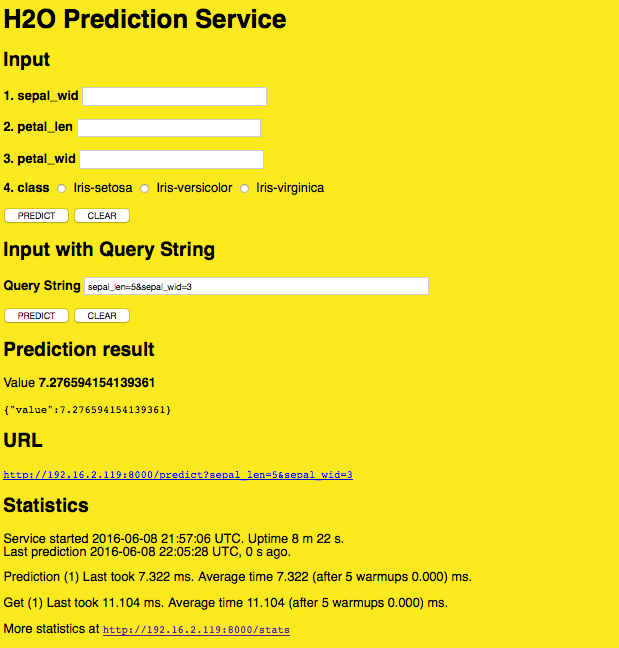
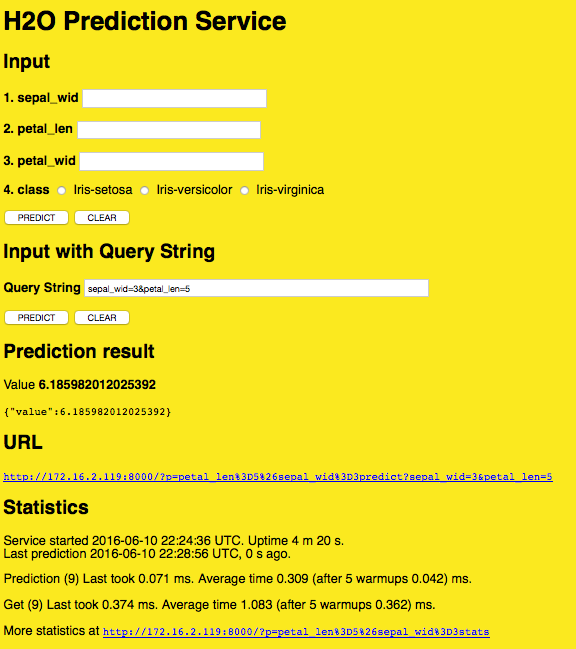
More updates to demo doc
- Added s3cmd requirement.
- Removed IP address for starting the compilation service and scoring
service.
- Update screenshots where necessary to show localhost instead of an IP
address.

Changed region(s): [[0.0, 0.0, 0.9688, 0.9877]]

diff --git a/demo/standard_demo_standalone.md b/demo/standard_demo_standalone.md
@@ -14,14 +14,22 @@ Finally, these steps were created using H2O version 3.8.2.8, and that version re
 ## Requirements
 
 - Web browser with an Internet connection
+- s3cmd
+	- available from <a href="http://s3tools.org/s3cmd" target="_blank">s3tools.org</a>
+	- Requires AWS credentials
 - JDK 1.7 or greater
 - Steam binary for Linux or OS X 
 	- `s3cmd get s3://steam-release/steamY-master-linux-amd64.tar.gz`
 	- `s3cmd get s3://steam-release/steamY-master-darwin-amd64.tar.gz`
 - H2O jar file
-	- available from the <a href="http://h2o-release.s3.amazonaws.com/h2o/rel-turchin/8/index.html"> H2O Download</a> page
+	- available from the <a href="http://h2o-release.s3.amazonaws.com/h2o/rel-turchin/8/index.html" target="_blank">H2O Download</a> page
+
+###Optional
+
+The following are required if you use the Python demo included in this document. 
+
 - A dataset that will be used to generate a model. This demo uses the well-known iris.csv dataset, and the dataset is saved onto the desktop. 
-- Python 2.7 (for building the model)
+- Python 2.7
 
 ## Installing and Starting Steam, the Compilation Service, and H2O
 
@@ -38,12 +46,12 @@ Finally, these steps were created using H2O version 3.8.2.8, and that version re
 		user$ cd steam-master-darwin-amd64
 		user$ java -jar var/master/assets/jetty-runner.jar var/master/assets/ROOT.war
 		
-4. Open another terminal window. Navigate to the Steam folder and start Steam. Replace the IP address with the IP address of your local machine.
+4. Open another terminal window. Navigate to the Steam folder and start the Steam compilation service and scoring service.
 
 		user$ cd steam-master-darwin-amd64/
-		user$ ./steam serve master --compilation-service-address=192.16.2.119:8080 --scoring-service-address=192.16.2.119
+		user$ ./steam serve master
 
-	>***Note***: Use `./steam help serve master` or `./steam serve master -h` to view additional options
+	>***Note***: This starts the compilation service on `localhost:8080` and the scoring service on `localhost`. You can change these using `--compilation-service-address=<ip_address:port>` and `--scoring-service-address=<ip_address>`. Use `./steam help serve master` or `./steam serve master -h` to view additional options.
 
 5. Open another terminal window. Navigate to the folder with your H2O jar file and start H2O. This will create a one-node cluster on your local machine.
 
@@ -56,7 +64,7 @@ Finally, these steps were created using H2O version 3.8.2.8, and that version re
 		06-07 15:36:36.642 192.16.2.119:54321    15931  main      INFO: Cloud of size 1 formed [/192.16.2.119:54321] 
 		...
 
-6. Point you browser to the Steam url, for example, http://192.16.2.119:9000/.
+6. Point you browser to the Steam URL, for example, http://localhost:9000/.
  
 7. In left pane, select the **Clusters** tab, then click the **Connect To Cluster** button to setup Steam with H2O. Specify the IP address and port of the cluster currently running H2O (for example, 192.16.2.119:54321), then click **Register Cluster**. 
 
@@ -64,7 +72,7 @@ Finally, these steps were created using H2O version 3.8.2.8, and that version re
 
 You are now ready to build a model on this cluster in Python. 
 
-## Building a Model in Python
+## Building a Model in Python (Optional)
 
 >**Note**: This section can be skipped if you already have demo steps that you use in R, Python, or Flow. If you use another demo, be sure that you initialize H2O on your local cluster so that the data will be available in Steam.
 
@@ -78,9 +86,9 @@ The steps below show how to build model using the Iris dataset and the GBM algor
 		>>> import h2o
 		>>> from h2o.estimators.gbm import H2OGradientBoostingEstimator
 
-2. Initialize H2O using your local IP address and port. 
+2. Initialize H2O using localhost and port 54321. (Note that if started Steam on a different machine, then replace `localhost` with the IP address of that machine.)
 
-		>>> h2o.init(ip=“192.16.2.119”, port=54321)
+		>>> h2o.init(ip=“localhost”, port=54321)
 		------------------------------  -------------------------------------
 		H2O cluster uptime:             2 minutes 37 seconds 168 milliseconds
 		H2O cluster version:            3.8.2.8
@@ -90,7 +98,7 @@ The steps below show how to build model using the Iris dataset and the GBM algor
 		H2O cluster total cores:        8
 		H2O cluster allowed cores:      8
 		H2O cluster healthy:            True
-		H2O Connection ip:              192.16.2.119
+		H2O Connection ip:              127.0.0.1
 		H2O Connection port:            54321
 		H2O Connection proxy:
 		Python Version:                 2.7.9
@@ -113,6 +121,7 @@ The steps below show how to build model using the Iris dataset and the GBM algor
 		>>> gbm_regressor
 
 Once created, the model will be visible in the Steam UI. 
+Also note that for backward 
 
 ## Deploying a Model in Steam
 
@@ -121,6 +130,7 @@ Once created, the model will be visible in the Steam UI.
   ![](images/import_model.png)
 
 2. Select the **Models** tab in the left pane. You should see the model that you just imported. Select this model, and then click **Deploy This Model** to create scoring services for the model.
+ 
 
 	![](images/deploy_model.png)
 
@@ -135,13 +145,13 @@ Once created, the model will be visible in the Steam UI.
 6. Make predictions using one of the following methods:
     
     - Specify input values based on column data from the original dataset, and then press the first **Predict** button.
-    - Enter a query string using the format `field1=value1&field2=value2` (for example, `C2=2.5&C3=3.4`), and then press the second **Predict** button.
+    - Enter a query string using the format `field1=value1&field2=value2` (for example, `sepal_width=3&petal_len=5`), and then press the second **Predict** button.
     
     ![](images/prediction_service.png)
     
     >***Notes***:
     
-	- Click the **URL** link below a prediction result. The predict variables will display in the URL (for example, http://192.16.2.119:8000/predict?C2=2.5&C3=3.4) 
+	- Click the **URL** link below a prediction result. The predict variables will display in the URL (for example, `http://172.16.2.119:8000/?p=petal_len%3D5%26sepal_wid%3D3predict?sepal_wid=3&petal_len=5`) 
 
 	- 	Use the **Clear** buttons to clear all entries and begin a new prediction.
      
